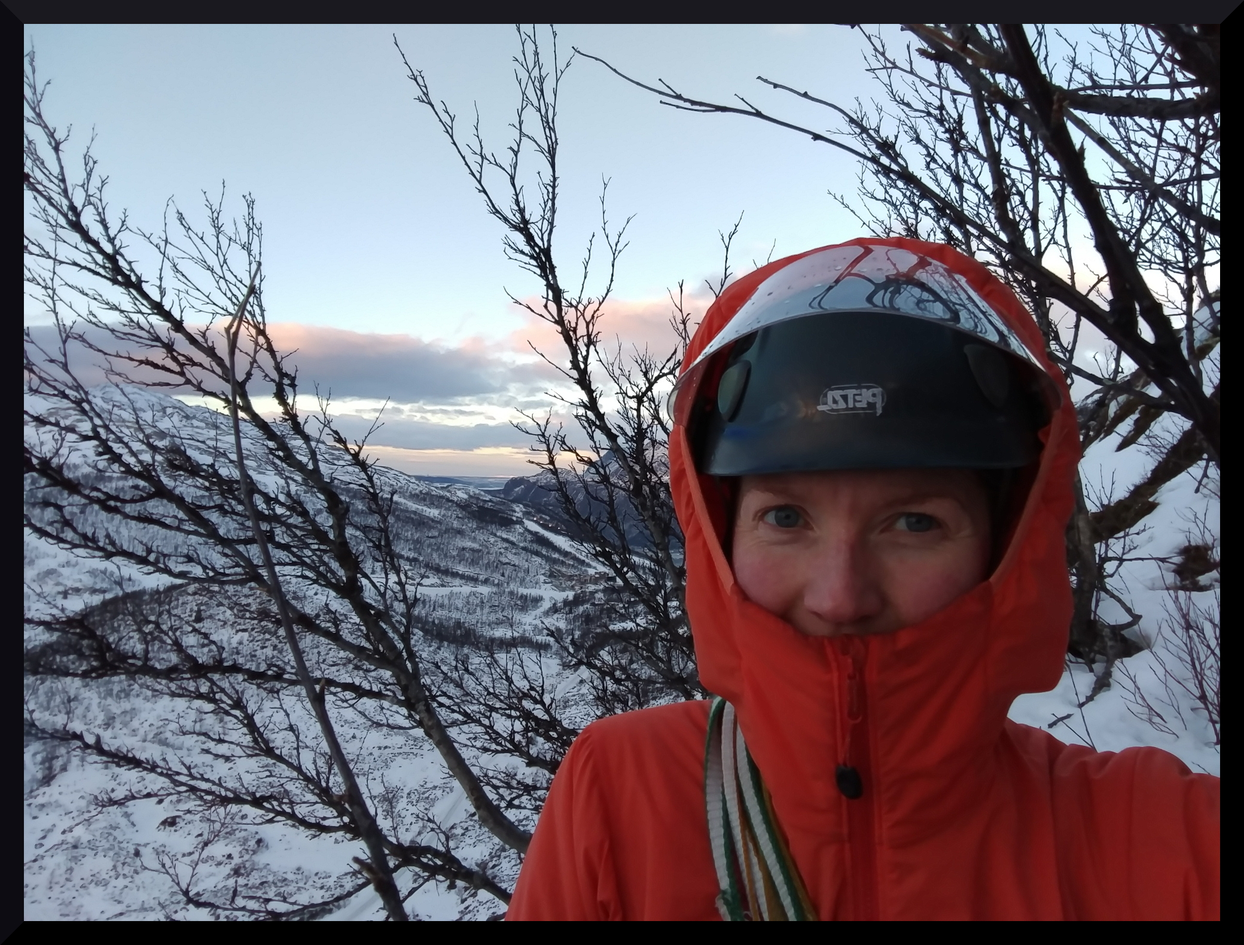
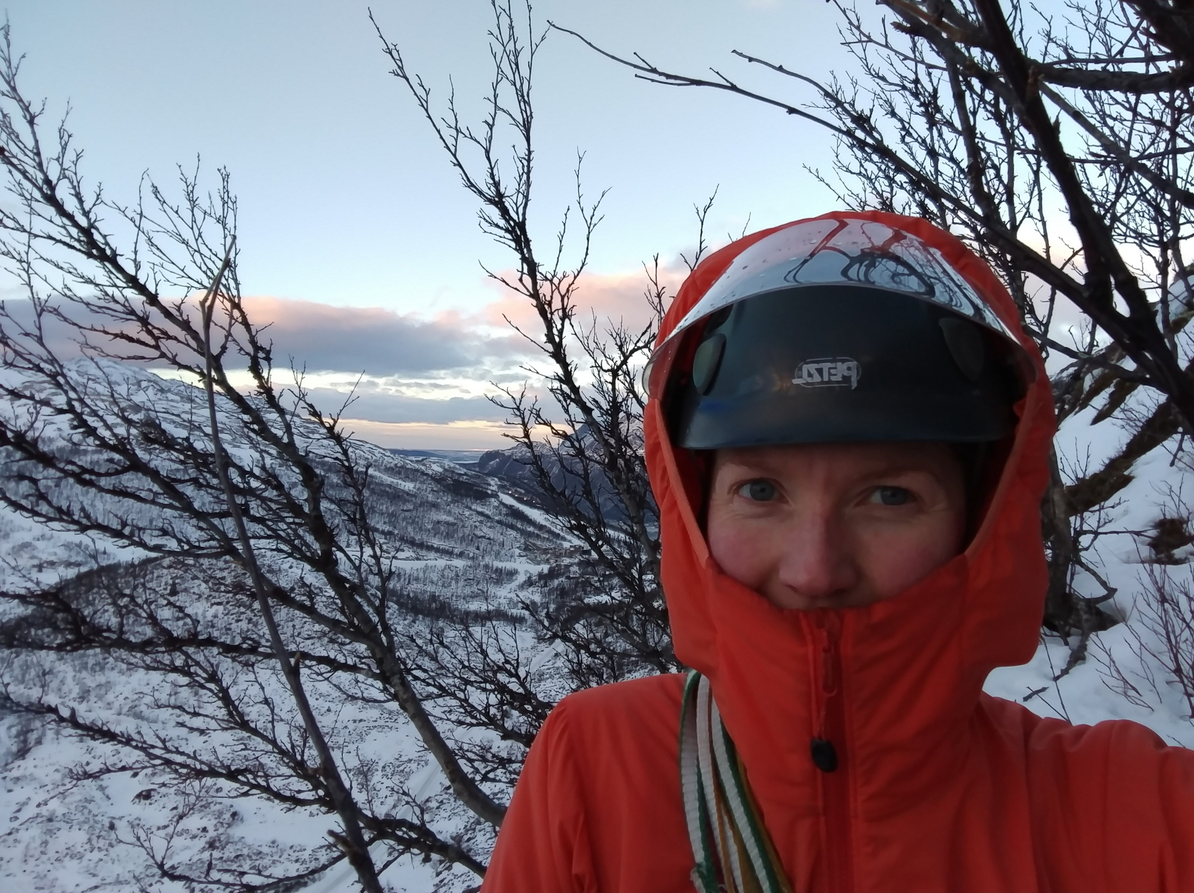
Change border

diff --git a/_layouts/post.html b/_layouts/post.html
@@ -27,7 +27,7 @@ layout: default
 
   <section class="profile">
     <div class="profile__card">
-      <div class="profile__img">
+      <div class="profile__img" style="border: thick solid black">
         <figure class="absolute-bg" style="background-image: url('{{ site.profile_img }}');"></figure>
       </div>
       <div class="profile__container">
